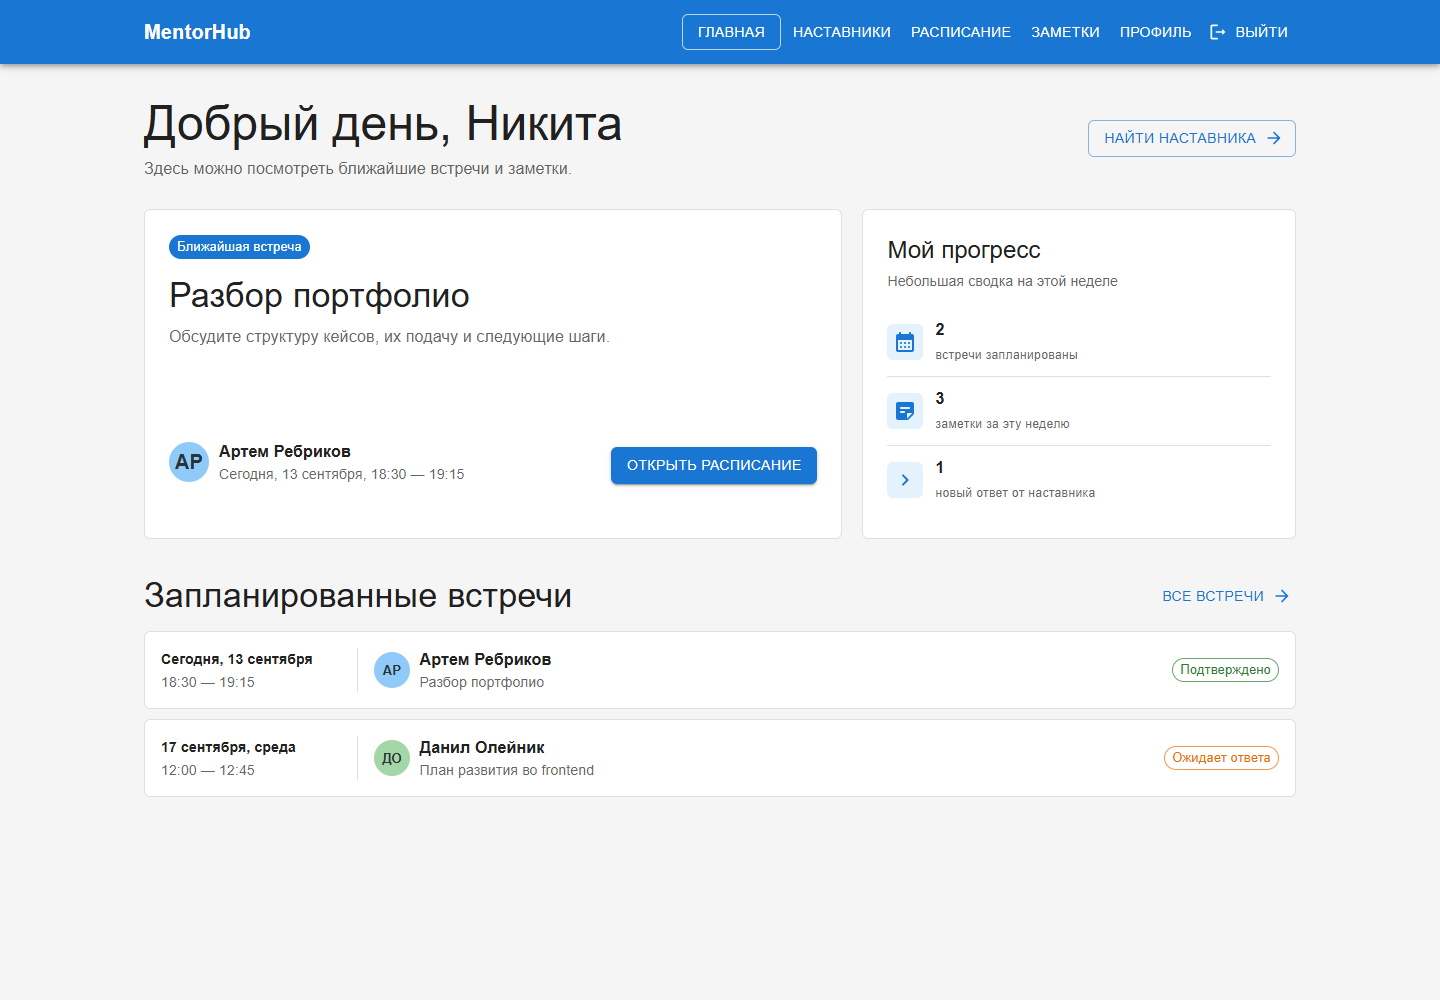
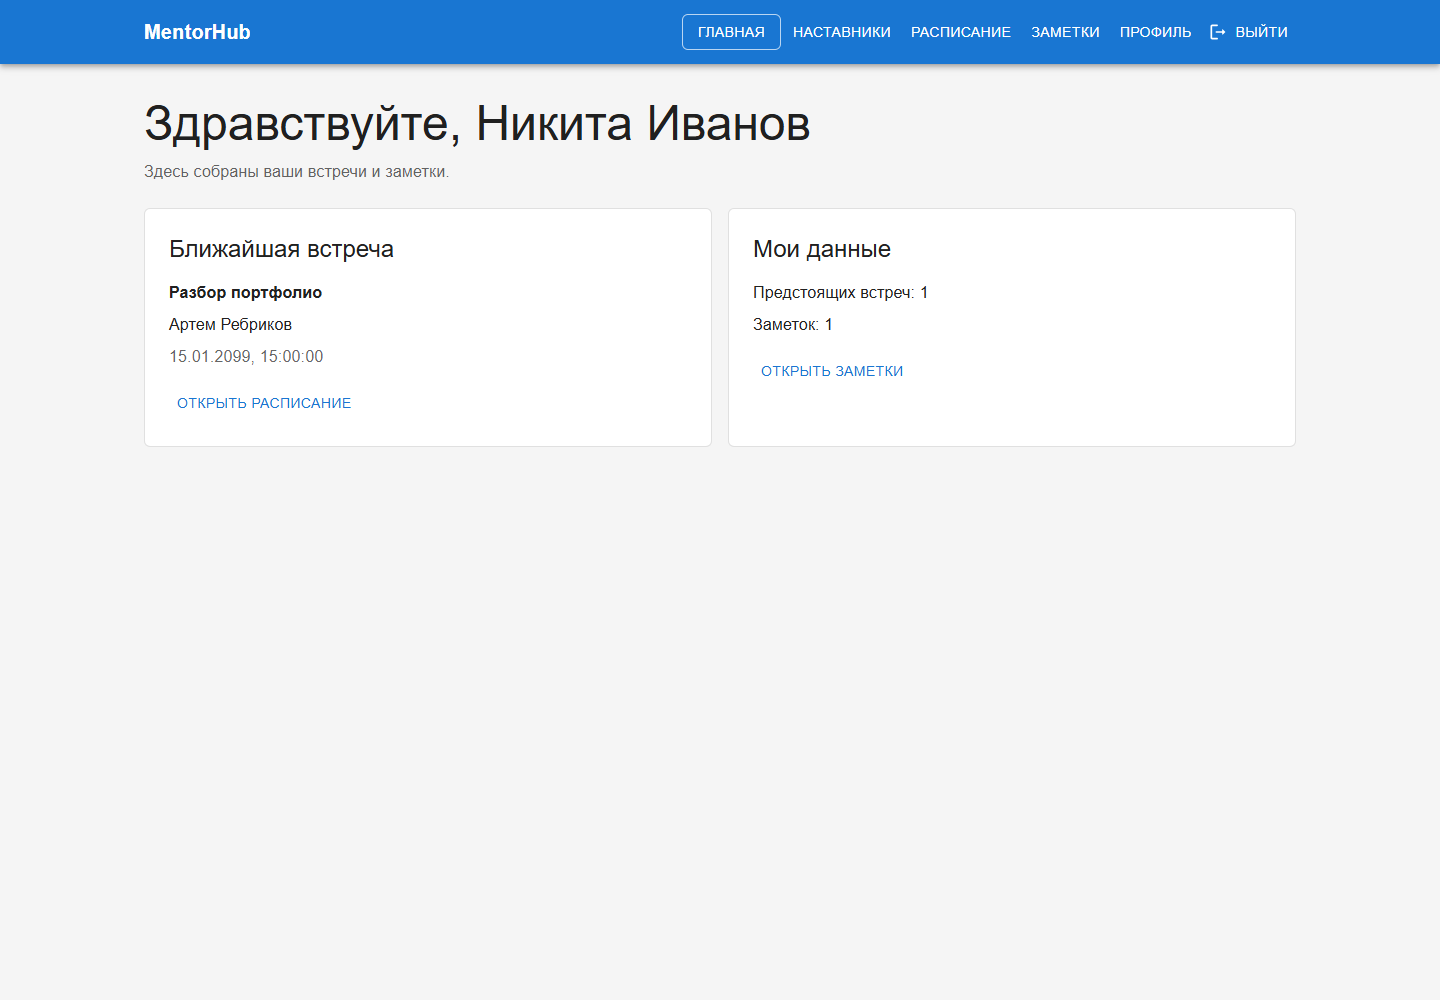
finish project integration

diff --git a/src/pages/ProfilePage.tsx b/src/pages/ProfilePage.tsx
@@ -8,7 +8,7 @@ import { DataStateView } from '../shared/ui/DataStateView'
 import { PageHeader } from '../shared/ui/PageHeader'
 
 export function ProfilePage() {
-  const { user } = useAuth()
+  const { user, updateUserName } = useAuth()
   const [student, setStudent] = useState<Student | null>(null)
   const [status, setStatus] = useState<DataStatus>('loading')
   const [error, setError] = useState('')
@@ -46,6 +46,7 @@ export function ProfilePage() {
     try {
       const result = await updateStudent(student.id, { full_name: fullName.trim(), goal: goal.trim() || null })
       setStudent(result)
+      updateUserName(result.full_name)
       setFullName(result.full_name)
       setGoal(result.goal ?? '')
       setEditing(false)

diff --git a/src/app/providers/AuthProvider.tsx b/src/app/providers/AuthProvider.tsx
@@ -71,5 +71,9 @@ export function AuthProvider({ children }: AuthProviderProps) {
     }
   }, [])
 
-  return <AuthContext.Provider value={{ status, user, signIn, signUp, signOut }}>{children}</AuthContext.Provider>
+  const updateUserName = (fullName: string) => {
+    setUser((current) => current ? { ...current, full_name: fullName } : null)
+  }
+
+  return <AuthContext.Provider value={{ status, user, signIn, signUp, signOut, updateUserName }}>{children}</AuthContext.Provider>
 }

diff --git a/src/app/providers/AuthContext.ts b/src/app/providers/AuthContext.ts
@@ -9,6 +9,7 @@ export type AuthContextValue = {
   signIn: (data: LoginPayload) => Promise<void>
   signUp: (data: RegisterPayload) => Promise<void>
   signOut: () => Promise<void>
+  updateUserName: (fullName: string) => void
 }
 
 export const AuthContext = createContext<AuthContextValue | null>(null)

diff --git a/README.md b/README.md
@@ -2,7 +2,7 @@
 
 MentorHub — учебный MVP сервиса наставничества. Ученик может просматривать наставников, планировать встречи и сохранять заметки по итогам общения.
 
-Проект выполняется по лабораторным работам курса Fullstack. В первой лабораторной создан интерфейс на React, во второй — backend на FastAPI с PostgreSQL и SQLAlchemy, в третьей — модульная структура frontend, а в четвёртой — аутентификация и авторизация через JWT.
+Проект выполняется по лабораторным работам курса Fullstack: интерфейс на React, backend на FastAPI с PostgreSQL, авторизация через JWT и интеграция основных экранов с API.
 
 ## Возможности
 
@@ -50,7 +50,6 @@ mentor-hub/
 │   └── requirements.txt
 ├── docs/screenshots/     # скриншоты frontend
 ├── src/                  # React-приложение
-└── REPORT_LAB_2.md       # подробный отчёт по лабораторной №2
 ```
 
 ## Архитектура frontend
@@ -71,10 +70,10 @@ src/
 - `app` объединяет приложение целиком и не содержит предметной логики;
 - `pages` собирает конкретный экран из компонентов и функций;
 - `features` содержит законченные пользовательские действия и состояние их форм;
-- `entities` хранит типы, демонстрационные данные и компоненты, относящиеся к одной сущности;
+- `entities` хранит типы, API-функции и компоненты, относящиеся к одной сущности;
 - `shared` предназначен для кода, который может использоваться в разных частях проекта и не зависит от конкретной сущности.
 
-В этой структуре `App.tsx`, `main.tsx` и `theme.ts` находятся в `app`; демонстрационные данные и типы разнесены по `entities`; общие компоненты находятся в `shared`; страницы остаются в `pages`.
+В этой структуре `App.tsx`, `main.tsx` и `theme.ts` находятся в `app`; типы и API-функции разнесены по `entities`; общие компоненты находятся в `shared`; страницы остаются в `pages`.
 
 ## Лабораторная работа №3
 
@@ -87,7 +86,7 @@ src/
 - для экранов с данными добавлены состояния загрузки, ошибки и пустого списка;
 - добавлены небольшие анимации появления записей и переключения заметок.
 
-Данные наставников, встреч и заметок пока остаются демонстрационными и после перезагрузки страницы возвращаются к начальному состоянию. Полная интеграция этих экранов с API FastAPI и PostgreSQL будет выполнена в лабораторной работе №5.
+На этапе лабораторной №3 данные были демонстрационными. В лабораторной №5 основные экраны подключены к API.
 
 ## Лабораторная работа №4
 
@@ -103,6 +102,17 @@ src/
 - frontend хранит токены, восстанавливает сессию после обновления страницы и перенаправляет гостя на страницу входа;
 - logout отзывает refresh-сессию на backend и очищает локальное состояние frontend.
 
+## Лабораторная работа №5
+
+- каталог наставников загружается из PostgreSQL через API; поиск и фильтр работают по полученным данным;
+- профиль ученика можно просматривать и редактировать;
+- встречи и личные заметки можно создавать, просматривать, изменять и удалять;
+- главная страница показывает ближайшую встречу и количество заметок из API;
+- общий клиент добавляет access token и при ответе `401` пробует обновить его через refresh token;
+- экраны показывают загрузку, ошибки и пустые списки.
+
+При создании встречи сервер проверяет совпадение времени начала с уже занятой записью наставника; пересечения по длительности пока не проверяются. В каталоге появятся только активные наставники, имеющиеся в базе. Новые пользователи регистрируются учениками; создание наставников через API доступно пользователю с ролью `mentor`.
+
 ## Скриншоты frontend
 
 Скриншоты находятся в `docs/screenshots`. Для их обновления сначала запустите приложение командой `npm.cmd run dev`, затем в отдельном PowerShell выполните:
@@ -111,7 +121,7 @@ src/
 npm.cmd run screenshots
 ```
 
-Скрипт сохраняет страницы входа и регистрации, основные страницы приложения, открытую форму создания заметки, ошибки формы записи на встречу и пустой результат поиска наставника. В конце он также проверяет сценарии успешного создания заметки и записи на встречу. Для скриншотов используется подменённый ответ авторизации, поэтому скрипт не создаёт тестовые записи в PostgreSQL.
+Скрипт сохраняет страницы входа и регистрации, основные экраны, форму заметки, ошибку даты встречи и пустой результат поиска. Ответы API для скриншотов подменяются демонстрационными данными; скрипт не проверяет PostgreSQL и не изменяет её.
 
 ## Быстрый запуск backend с PostgreSQL
 
@@ -122,7 +132,7 @@ npm.cmd run screenshots
 - пользователя `mentorhub_user` с правом входа;
 - базу данных `mentorhub`, владельцем которой будет `mentorhub_user`.
 
-Подробный порядок действий приведён в [REPORT_LAB_2.md](REPORT_LAB_2.md). Параметры подключения для приложения находятся в `backend/.env.example`.
+Параметры подключения для приложения находятся в `backend/.env.example`.
 
 ### 2. Подготовьте Python-окружение
 
@@ -145,7 +155,7 @@ py -m venv .venv
 Copy-Item .env.example .env
 ```
 
-Файл `.env` не добавляется в Git. Укажите в нём пароль созданного пользователя PostgreSQL вместо `CHANGE_ME`.
+Создавайте `.env` только если его ещё нет: не перезаписывайте существующие настройки. Файл `.env` не добавляется в Git. Укажите в нём пароль созданного пользователя PostgreSQL вместо `CHANGE_ME`.
 
 Для JWT добавьте в `backend/.env` уникальный секрет. Его можно сгенерировать командой:
 
@@ -184,7 +194,7 @@ API будет доступен по адресу `http://127.0.0.1:8000`.
 
 ### 4. Проверьте API через Swagger UI
 
-Откройте `http://127.0.0.1:8000/docs`. Для проверки аутентификации сначала вызовите `POST /api/v1/auth/register` или `POST /api/v1/auth/login`. Скопируйте `access_token` в кнопку **Authorize** и укажите формат `Bearer <access_token>`. После этого можно проверять закрытые маршруты профиля, встреч и заметок.
+Откройте `http://127.0.0.1:8000/docs`. Для проверки аутентификации сначала вызовите `POST /api/v1/auth/register` или `POST /api/v1/auth/login`. Скопируйте значение `access_token` в кнопку **Authorize** без префикса `Bearer`: Swagger добавит его сам. После этого можно проверять закрытые маршруты профиля, встреч и заметок.
 
 После запуска обновите в pgAdmin список таблиц: в схеме `public` должны появиться `mentors`, `students`, `appointments`, `notes`, `users` и `refresh_sessions`.
 
@@ -195,12 +205,10 @@ API будет доступен по адресу `http://127.0.0.1:8000`.
 | Сущность | Маршрут | Операции |
 | --- | --- | --- |
 | Наставники | `/api/v1/mentors` | создание, список, получение, изменение, удаление |
-| Ученики | `/api/v1/students` | создание, список, получение, изменение, удаление |
+| Ученики | `/api/v1/students` | собственный профиль: получение, изменение, удаление; создаётся при регистрации |
 | Встречи | `/api/v1/appointments` | создание, список, получение, изменение, удаление |
 | Заметки | `/api/v1/notes` | создание, список, получение, изменение, удаление |
 | Аутентификация | `/api/v1/auth/register`, `/login`, `/refresh`, `/logout`, `/me` | регистрация, вход, обновление access token, выход, текущий пользователь |
-
-Подробное описание модели данных, бизнес-правил, форматов запросов и результатов проверки находится в [REPORT_LAB_2.md](REPORT_LAB_2.md).
 
 ## Запуск frontend
 
@@ -213,4 +221,4 @@ npm run dev
 
 Если PowerShell блокирует `npm.ps1`, используйте `npm.cmd install` и `npm.cmd run dev`.
 
-Frontend использует API FastAPI для регистрации, входа, восстановления сессии и выхода. Данные наставников, встреч и заметок пока остаются демонстрационными; полная интеграция этих экранов с API будет выполнена в лабораторной работе №5.
+После запуска зарегистрируйтесь или войдите. Frontend использует FastAPI для авторизации и данных основных экранов. Если база наставников пуста, каталог и выбор наставника будут пустыми.
